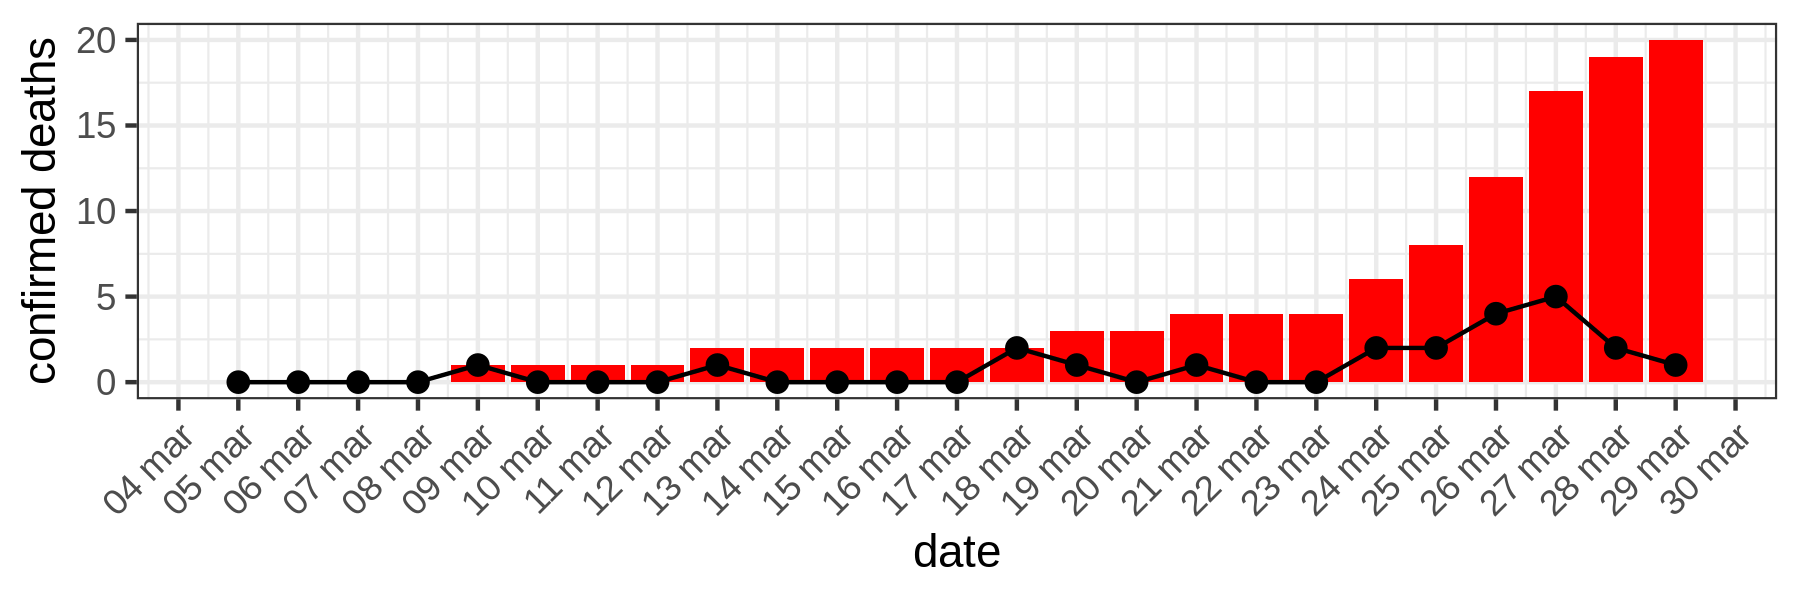
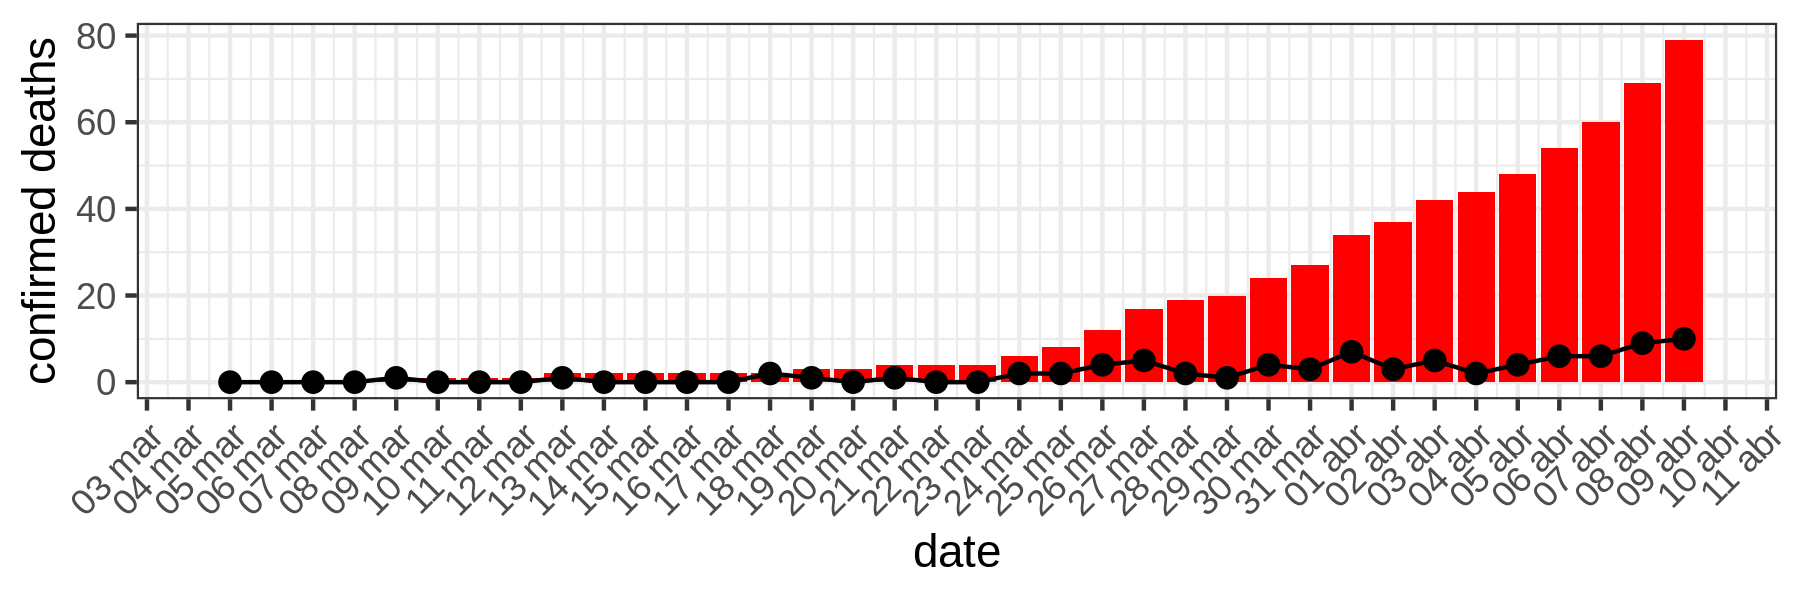
Update dataset and plots

diff --git a/README.md b/README.md
@@ -12,24 +12,23 @@ The dataset contains daily information from mars 5th, when the first case was re
 names(covid19_arg)
 ```
 
-    ##  [1] "date"                  "total_cases"          
-    ##  [3] "total_deaths"          "total_recovered"      
-    ##  [5] "total_tests_negatives" "total_tests"          
-    ##  [7] "total_imported%"       "total_local_contact%" 
-    ##  [9] "total_under_analysis%" "new_cases"            
-    ## [11] "new_deaths"            "local_contact"        
-    ## [13] "imported"              "under_analysis"       
-    ## [15] "CABA"                  "Buenos Aires"         
-    ## [17] "Chaco"                 "Córdoba"              
-    ## [19] "Corrientes"            "Entre Ríos"           
-    ## [21] "Jujuy"                 "La Pampa"             
-    ## [23] "Mendoza"               "Misiones"             
-    ## [25] "Neuquén"               "Río Negro"            
-    ## [27] "Salta"                 "San Luis"             
-    ## [29] "Santa Cruz"            "Santa Fe"             
-    ## [31] "Santiago del Estero"   "Tierra del Fuego"     
-    ## [33] "San Juan"              "La Rioja"             
-    ## [35] "Tucumán"               "X36"
+    ##  [1] "date"                    "total_cases"            
+    ##  [3] "total_deaths"            "total_recovered"        
+    ##  [5] "total_tests_negatives"   "total_tests"            
+    ##  [7] "total_imported%"         "total_imported_contact%"
+    ##  [9] "total_comunitary%"       "total_under_analysis%"  
+    ## [11] "new_cases"               "new_deaths"             
+    ## [13] "CABA"                    "Buenos Aires"           
+    ## [15] "Chaco"                   "Córdoba"                
+    ## [17] "Corrientes"              "Entre Ríos"             
+    ## [19] "Jujuy"                   "La Pampa"               
+    ## [21] "Mendoza"                 "Misiones"               
+    ## [23] "Neuquén"                 "Río Negro"              
+    ## [25] "Salta"                   "San Luis"               
+    ## [27] "Santa Cruz"              "Santa Fe"               
+    ## [29] "Santiago del Estero"     "Tierra del Fuego"       
+    ## [31] "San Juan"                "La Rioja"               
+    ## [33] "Tucumán"                 "X34"
 
 Example
 =======
@@ -102,10 +101,10 @@ Top 6 provinces with confirmed cases
 ------------------------------------
 
 ``` r
-top_5<-covid19_arg[,c(12:27)] %>% replace(is.na(.), 0) %>% tibble::add_column(date=covid19_arg$date) %>%
+top_5<-covid19_arg[,c(12:33)] %>% replace(is.na(.), 0) %>% tibble::add_column(date=covid19_arg$date) %>%
   pivot_longer(-date,names_to = "Province", values_to = "total") %>% group_by(Province) %>% summarise(total_cases=sum(total)) %>%  top_n(5) %>% select(Province)
 
-covid19_arg[,c(12:27)] %>% replace(is.na(.), 0) %>% tibble::add_column(date=covid19_arg$date) %>%group_by(date) %>%
+covid19_arg[,c(12:33)] %>% replace(is.na(.), 0) %>% tibble::add_column(date=covid19_arg$date) %>%group_by(date) %>%
   pivot_longer(-date,names_to = "Province", values_to = "new_cases") %>% group_by(Province) %>% mutate(cumulative_cases=cumsum(new_cases)) %>% arrange(desc(cumulative_cases)) %>% filter( Province %in% unlist(as.list(top_5))) %>% 
 
   ggplot()+
@@ -128,10 +127,10 @@ Infections per day in Top 6 provinces with confirmed cases
 ----------------------------------------------------------
 
 ``` r
-top_5<-covid19_arg[,c(12:27)] %>% replace(is.na(.), 0) %>% tibble::add_column(date=covid19_arg$date) %>%
+top_5<-covid19_arg[,c(12:33)] %>% replace(is.na(.), 0) %>% tibble::add_column(date=covid19_arg$date) %>%
   pivot_longer(-date,names_to = "Province", values_to = "total") %>% group_by(Province) %>% summarise(total_cases=sum(total)) %>%  top_n(6) %>% select(Province)
 
-covid19_arg[,c(12:27)] %>% replace(is.na(.), 0) %>% tibble::add_column(date=covid19_arg$date) %>%
+covid19_arg[,c(12:33)] %>% replace(is.na(.), 0) %>% tibble::add_column(date=covid19_arg$date) %>%
   pivot_longer(-date,names_to = "Province", values_to = "total") %>% filter( Province %in% unlist(as.list(top_5))) %>% 
 ggplot()+
   geom_col(aes(x=date,y=total))+
